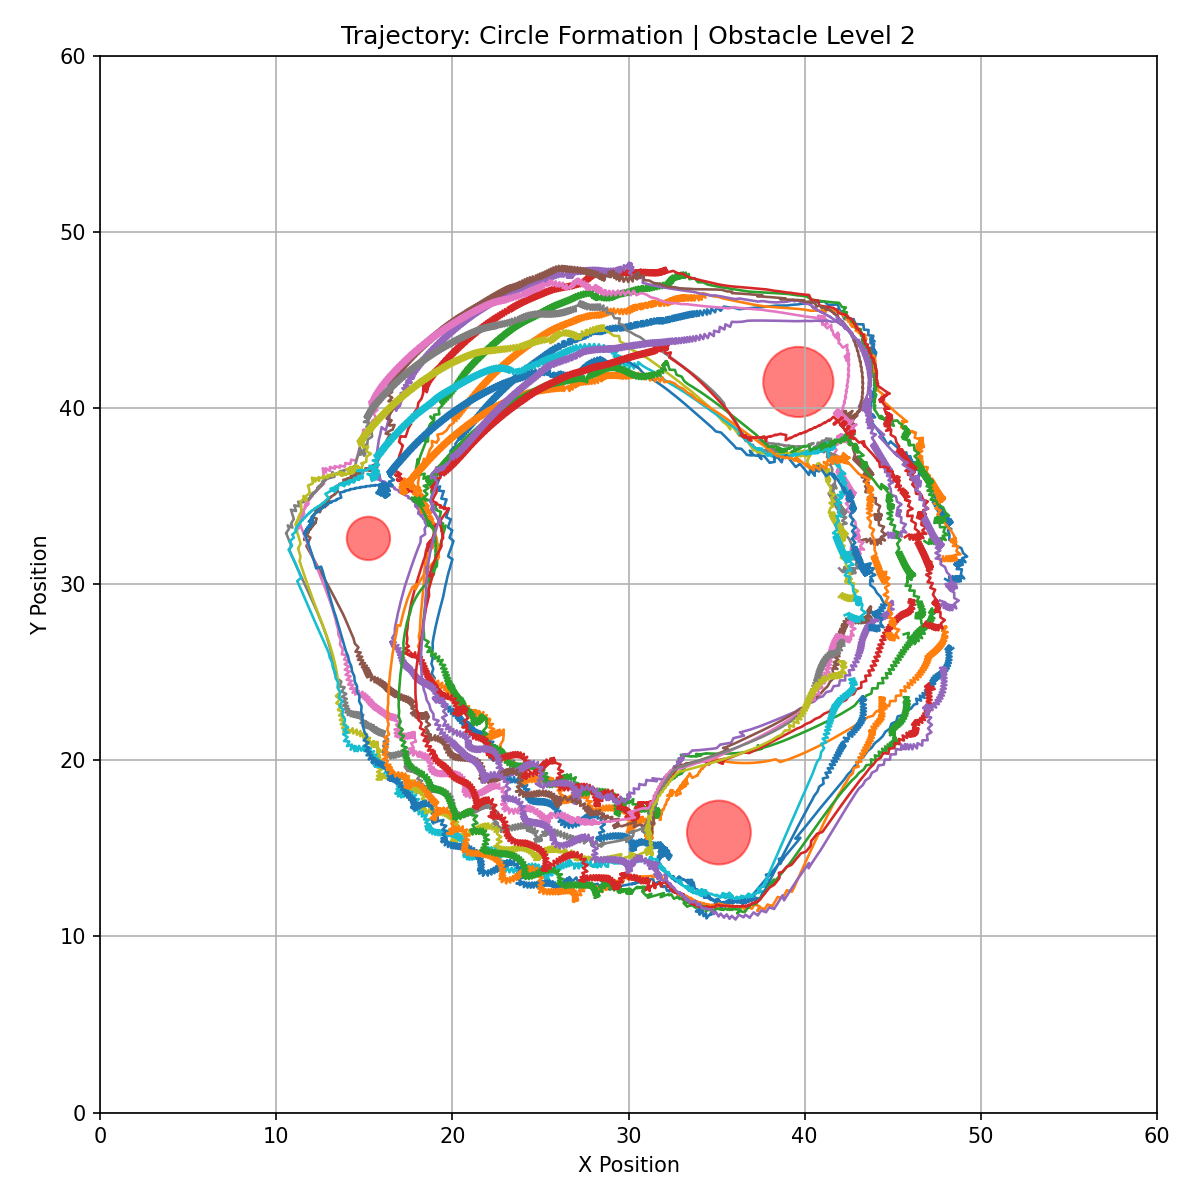
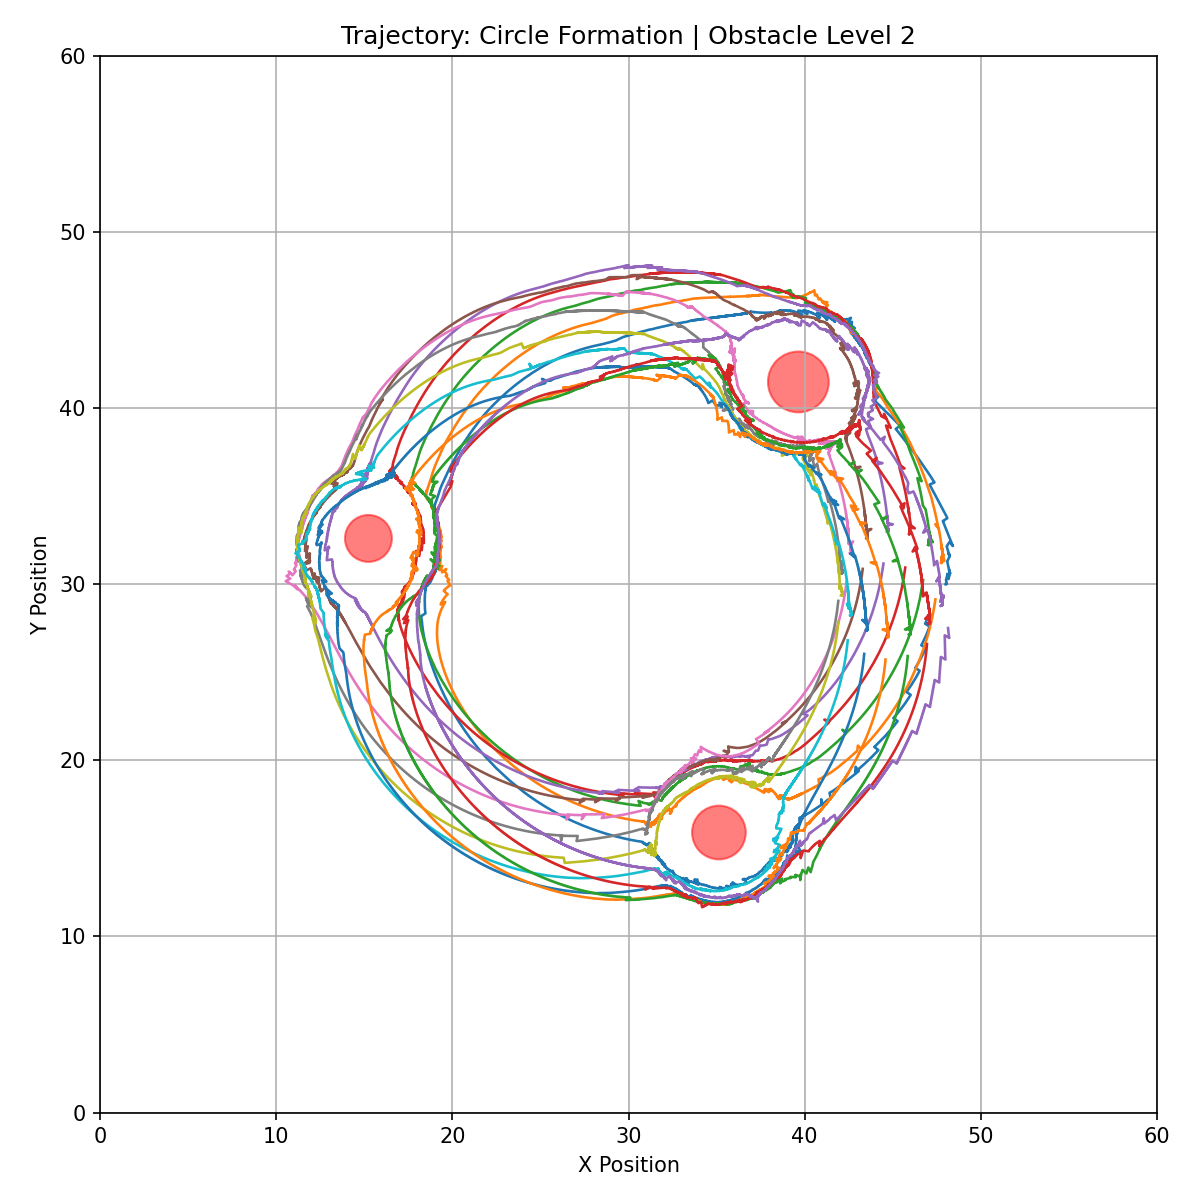
Adding trajectory plots

Changed region(s): [[0.2158, 0.2158, 0.8017, 0.7708]]

diff --git a/swarm_rl/Final/advanced_trajectory_runner.py b/swarm_rl/Final/advanced_trajectory_runner.py
@@ -1,0 +1,227 @@
+# trajectory_runner.py
+import numpy as np
+import matplotlib.pyplot as plt
+import ocm  # your module containing the sim primitives & constants
+
+# === set this to your trained policy zip ===
+POLICY_ZIP_PATH = "swarm_navigation_policy.zip"  # or None to disable PPO control
+
+# (optional) Only needed if using PPO
+try:
+    from stable_baselines3 import PPO
+except Exception:
+    PPO = None
+
+
+def _build_obs(positions: np.ndarray, headings: np.ndarray, velocities: np.ndarray) -> np.ndarray:
+    """
+    Observation layout used during training:
+      per-robot [x, y, heading, vx, vy], flattened to length 5*N.
+    """
+    return np.hstack([positions, headings[:, None], velocities]).astype(np.float32).ravel()
+
+
+def simulate_and_record_trajectory_cfg(
+    formation_type: str,
+    obstacle_level: int,
+    *,
+    num_robots: int = 15,
+    num_steps: int = 400,
+    world_width_: float = None,
+    robot_max_speed_: float = None,
+    world_boundary_tolerance_: float = None,
+    policy_zip: str | None = POLICY_ZIP_PATH,
+):
+    ww = ocm.world_width if world_width_ is None else world_width_
+    rms = ocm.robot_max_speed if robot_max_speed_ is None else robot_max_speed_
+    wbt = ocm.world_boundary_tolerance if world_boundary_tolerance_ is None else world_boundary_tolerance_
+
+    # local moving-center state
+    local_moving_theta = 0.0
+    local_theta_step = 2.0 * np.pi / float(num_steps)
+
+    def local_get_moving_center(swarm_positions: np.ndarray) -> np.ndarray:
+        nonlocal local_moving_theta
+        swarm_center = np.mean(swarm_positions, axis=0)
+        expected_position = ocm.circle_center + ocm.circle_radius * np.array(
+            [np.cos(local_moving_theta), np.sin(local_moving_theta)]
+        )
+        lag_distance = np.linalg.norm(swarm_center - expected_position)
+        lag_threshold = 5.0
+        min_slow_factor = 0.05
+        max_lag_distance = 12.0
+        slow_factor = 0.0 if lag_distance > max_lag_distance else max(min_slow_factor, min(1.0, lag_threshold / (lag_distance + 1e-6)))
+        local_moving_theta += local_theta_step * slow_factor
+        return ocm.circle_center + ocm.circle_radius * np.array(
+            [np.cos(local_moving_theta), np.sin(local_moving_theta)]
+        )
+
+    # load PPO (optional)
+    model = None
+    if policy_zip is not None:
+        if PPO is None:
+            raise ImportError("stable-baselines3 is not installed, but policy_zip was provided.")
+        model = PPO.load(policy_zip, device="cpu")
+
+    # init swarm
+    start_position = ocm.circle_center + ocm.circle_radius * np.array([1.0, 0.0])
+    headings = np.random.uniform(0, 2 * np.pi, num_robots)
+    velocities = np.zeros((num_robots, 2))
+    trajectory: list[np.ndarray] = []
+
+    if formation_type.lower() == "triangle":
+        positions = ocm.initialize_positions_triangle(num_robots, start_position, ocm.formation_size_triangle_base)
+    else:
+        positions = ocm.initialize_positions(num_robots, start_position, ocm.formation_radius_base)
+
+    obstacles = ocm.generate_varied_obstacles_with_levels(
+        ocm.circle_center, ocm.circle_radius, ocm.num_obstacles,
+        ocm.min_obstacle_size, ocm.max_obstacle_size,
+        ocm.offset_degrees, ocm.passage_width, obstacle_level,
+    )
+
+    current_K, current_C = ocm.K_base, ocm.C_base
+    alpha, beta = ocm.alpha_base, ocm.beta_base
+    formation_radius = ocm.formation_radius_base
+    formation_size_triangle = ocm.formation_size_triangle_base
+
+    for _ in range(num_steps):
+        # collisions (PSO removed; PPO should regenerate)
+        positions_new, removed = ocm.check_collisions(positions, obstacles)
+        positions = positions_new
+
+        # if PPO active, REGENERATE to keep N constant
+        if model is not None:
+            missing = num_robots - len(positions)
+            if missing > 0:
+                # respawn near moving center with small jitter, zero velocity, random heading
+                spawn_center = local_get_moving_center(positions if len(positions) > 0 else np.array([[ww/2, ww/2]]))
+                new_pos = []
+                for _ in range(missing):
+                    jitter = np.random.uniform(-1.0, 1.0, size=2)
+                    pos = np.clip(spawn_center + jitter, wbt, ww - wbt)
+                    new_pos.append(pos)
+                if len(new_pos):
+                    positions = np.vstack([positions, np.array(new_pos)])
+                    headings = np.concatenate([headings[:len(positions)-missing], np.random.uniform(0, 2*np.pi, size=missing)])
+                    velocities = np.vstack([velocities[:len(positions)-missing], np.zeros((missing, 2))])
+        else:
+            # heuristic mode: actually delete the collided robots
+            if removed:
+                headings = np.delete(headings, removed, axis=0)
+                velocities = np.delete(velocities, removed, axis=0)
+
+        if len(positions) == 0:
+            break
+
+        # controller parameters
+        if model is not None:
+            obs = _build_obs(positions, headings, velocities)
+            # if something still mismatches (shouldn't), pad
+            expected = 5 * num_robots
+            if obs.size != expected:
+                pad = expected - obs.size
+                if pad > 0:
+                    obs = np.concatenate([obs, np.zeros(pad, dtype=np.float32)])
+                else:
+                    obs = obs[:expected]
+            action, _ = model.predict(obs, deterministic=True)
+            alpha = float(np.clip(action[0], 0.0, 1.0))
+            beta  = float(np.clip(action[1], 0.0, 1.0))
+            current_K = float(np.clip(action[2], ocm.K_min, ocm.K_max))
+            current_C = float(np.clip(action[3], ocm.C_min, ocm.C_max))
+        else:
+            formation_radius, formation_size_triangle, alpha, beta = ocm.adapt_parameters(
+                positions, obstacles,
+                ocm.formation_radius_base, ocm.formation_size_triangle_base,
+                ocm.alpha_base, ocm.beta_base,
+            )
+
+        # targets
+        center_now = local_get_moving_center(positions)
+        if formation_type.lower() == "triangle":
+            targets = ocm.get_target_positions_triangle(center_now, len(positions), formation_size_triangle)
+        else:
+            targets = ocm.get_target_positions(center_now, len(positions), formation_radius)
+
+        # dynamics
+        forces, current_K, current_C = ocm.compute_forces_with_sensors(
+            positions, headings, velocities, targets, obstacles,
+            current_K, current_C, alpha, beta
+        )
+        positions, headings = ocm.update_positions_and_headings(
+            positions, headings, forces, rms, (ww, wbt)
+        )
+
+        trajectory.append(positions.copy())
+
+    return {
+        "trajectory": trajectory,
+        "obstacles": obstacles,
+        "world_width": ww,
+        "formation_type": formation_type,
+        "obstacle_level": obstacle_level,
+    }
+
+
+def plot_trajectory_from_result(res):
+    """Render a static trajectory plot and save to disk."""
+    traj = res["trajectory"]
+    if not traj:
+        print("No trajectory to plot (all robots removed immediately?).")
+        return
+
+    ww = res["world_width"]
+    obstacles = res["obstacles"]
+    formation_type = res["formation_type"]
+    obstacle_level = res["obstacle_level"]
+
+    plt.figure(figsize=(8, 8))
+
+    # Robots may be removed mid-run; plot only indices that exist at each step
+    first = traj[0]
+    for i in range(len(first)):
+        path = np.array([step[i] for step in traj if len(step) > i])
+        if len(path) >= 2:
+            plt.plot(path[:, 0], path[:, 1], linewidth=1.25)
+
+    ax = plt.gca()
+    for obs in obstacles:
+        if obs.get("type", "circle") == "circle":
+            ax.add_patch(plt.Circle(obs["position"], obs["radius"], color="red", alpha=0.5))
+
+    plt.title(f"Trajectory: {formation_type.capitalize()} Formation | Obstacle Level {obstacle_level}")
+    plt.xlabel("X Position")
+    plt.ylabel("Y Position")
+    plt.xlim(0, ww)
+    plt.ylim(0, ww)
+    ax.set_aspect("equal")
+    plt.grid(True)
+    plt.tight_layout()
+    fn = f"trajectory_{formation_type}_obstacle{obstacle_level}.png"
+    plt.savefig(fn, dpi=150)
+    plt.close()
+    print(f"Saved {fn}")
+
+
+def main():
+    # IMPORTANT: for a trained PPO policy, keep N equal to the training size (usually 15).
+    N = ocm.num_robots  # should be 15 for your trained policy
+    for formation_type in ["circle", "triangle"]:
+        for obstacle_level in [0, 1, 2, 3, 4]:
+            print(f"Running: Formation={formation_type}, Obstacle={obstacle_level}")
+            res = simulate_and_record_trajectory_cfg(
+                formation_type,
+                obstacle_level,
+                num_robots=N,
+                num_steps=8000,  # adjust as you like
+                world_width_=ocm.world_width,
+                robot_max_speed_=ocm.robot_max_speed,
+                world_boundary_tolerance_=ocm.world_boundary_tolerance,
+                policy_zip=POLICY_ZIP_PATH,  # set to None to disable PPO
+            )
+            plot_trajectory_from_result(res)
+
+
+if __name__ == "__main__":
+    main()
